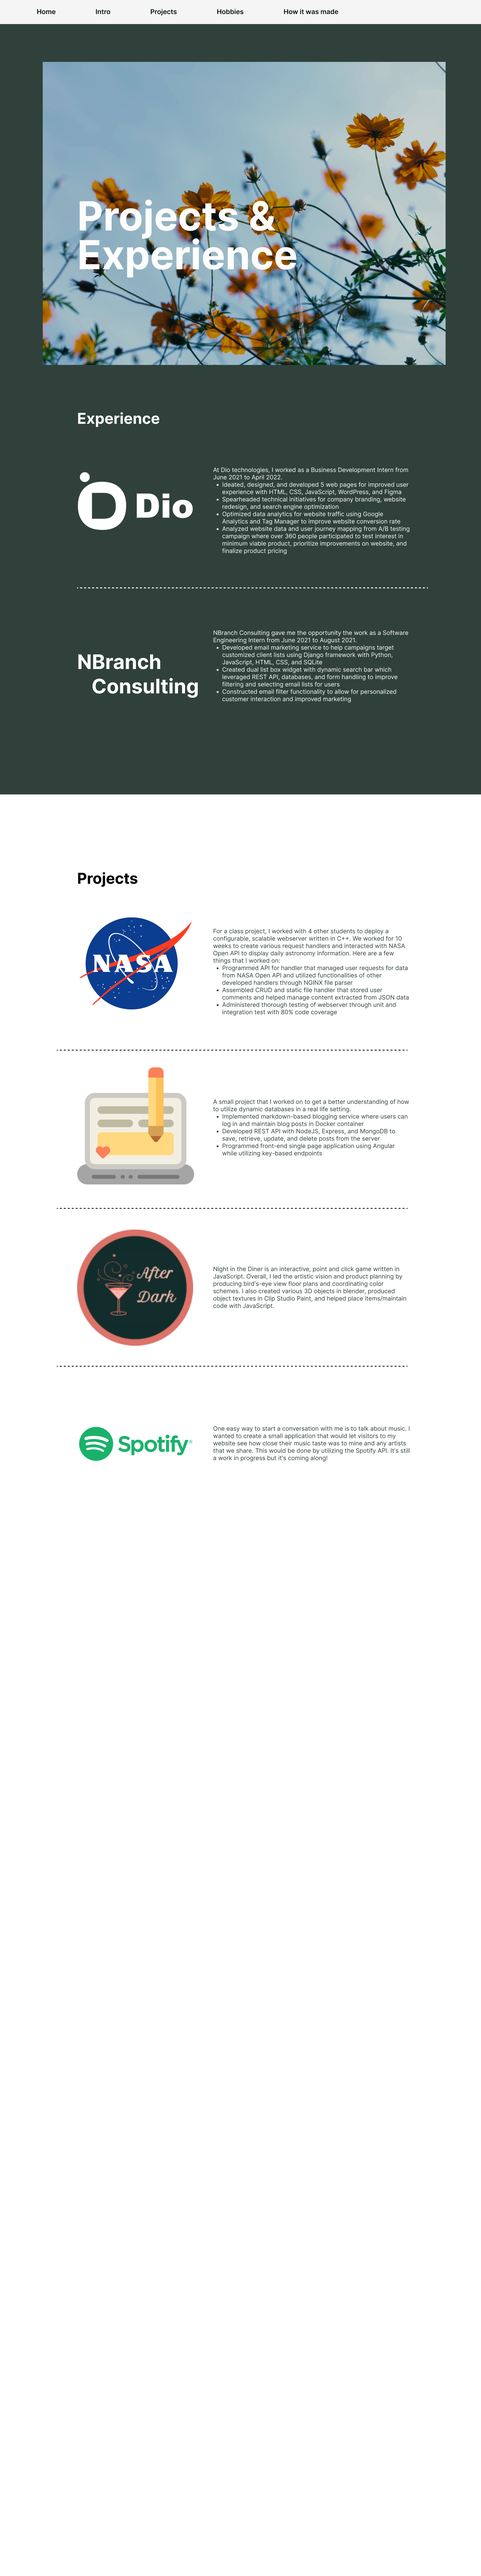
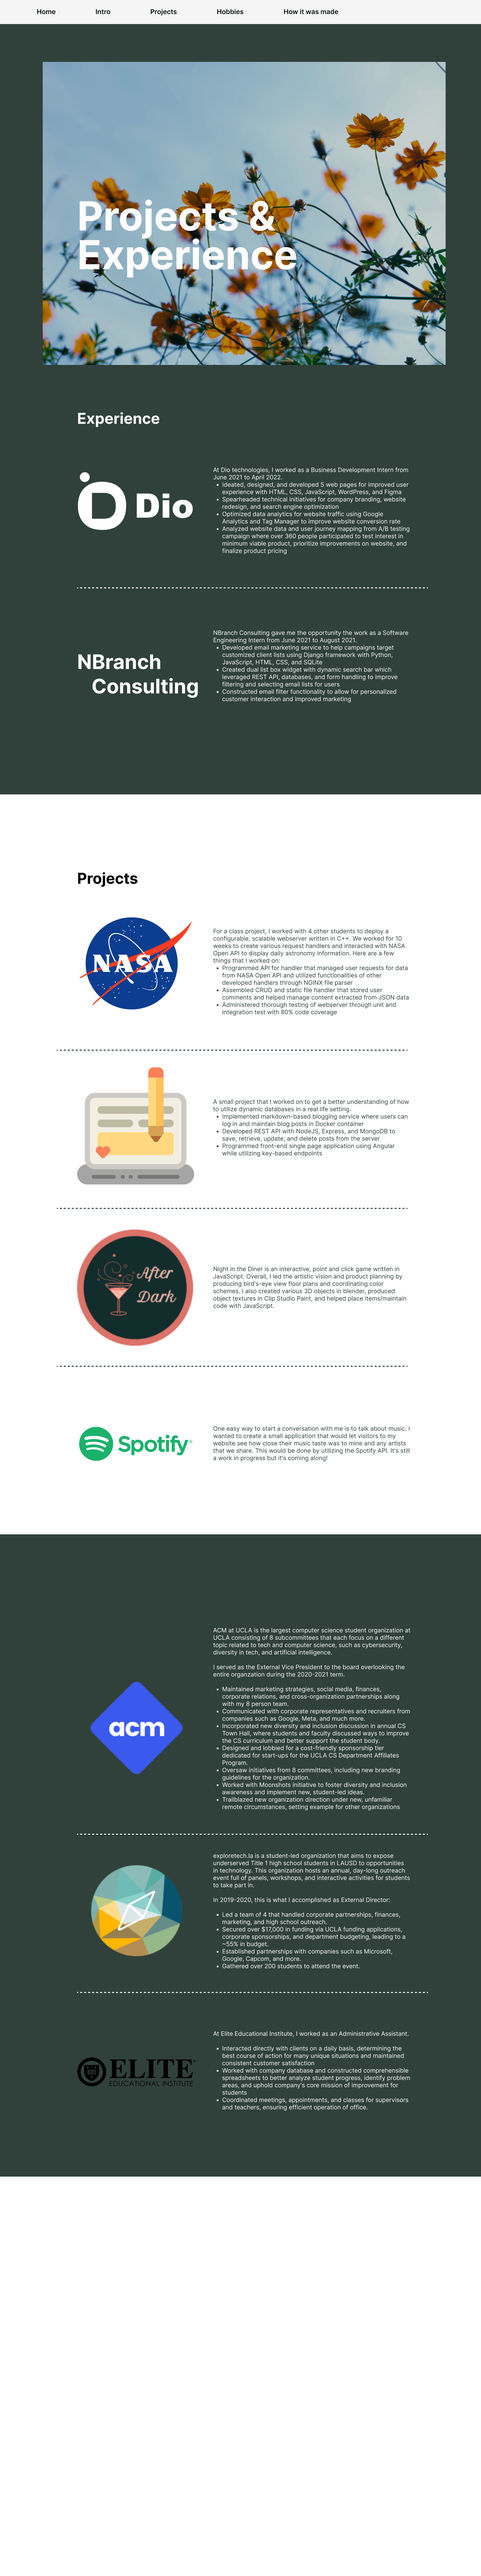
General page proofreading and bug fixes

Changed region(s): [[0.0, 0.5921, 1.0, 0.8726]]

diff --git a/index.html b/index.html
@@ -59,7 +59,7 @@
                     </p>
                     <p class='small_content'>
                         Currently, I'm interested in full-stack development. No matter what I do, I will always be happiest when I blend my creative abilities 
-                        and my interested in tech together to create something new and exciting!
+                        and my interest in tech together to create something new and exciting!
                     </p>
                 </div>
             </div>
@@ -80,17 +80,17 @@
                                         <img class='carousel_img' src='images/dio-white-transp.svg'/>
                                         <p>At Dio technologies, I worked as a Business Development Intern from June 2021 to April 2022. </p>
                                         <ul>
-                                            <li>Ideated, designed, and developed 5 web pages for improved user experience with HTML, CSS, JavaScript, WordPress, and Figma</li>
-                                            <li>Spearheaded technical initiatives for company branding, website redesign, and search engine optimization</li>
-                                            <li>Optimized data analytics for website traffic using Google Analytics and Tag Manager to improve website conversion rate</li>
-                                            <li>Analyzed website data and user journey mapping from A/B testing campaign where over 360 people participated to test interest in minimum viable product, prioritize improvements on website, and finalize product pricing</li>
+                                            <li><span class='strong'>Web Development</span>: Ideated, designed, and developed 5 web pages for improved user experience with HTML, CSS, JavaScript, WordPress, and Figma</li>
+                                            <li><span class='strong'>Design & SEO</span>: Spearheaded technical initiatives for company branding, website redesign, and search engine optimization</li>
+                                            <li><span class='strong'>Data Analysis</span>: Optimized data analytics for website traffic using Google Analytics and Tag Manager to improve website conversion rate</li>
+                                            <li><span class='strong'>A/B Testing</span>: Analyzed website data and user journey mapping from A/B testing campaign where over 360 people participated to test interest in minimum viable product, prioritize improvements on website, and finalize product pricing</li>
                                         </ul>
                                     </div>
                                 </li>
                                 <li class='carousel_slide rounded'>
                                     <div class='carousel_content'>
                                         <p><span class='carousel_title'>NBranch Consulting</span></p>
-                                        <p>NBranch Consulting gave me the opportunity the work as a Software Engineering Intern from June 2021 to August 2021.</p>
+                                        <p>NBranch Consulting gave me the opportunity the work as a Software Engineering Intern from June 2021 to August 2021. During my time as an intern, I worked on a lot of backend projects.</p>
                                         <ul>
                                             <li>Developed email marketing service to help campaigns target customized client lists using Django framework with Python, JavaScript, HTML, CSS, and SQLite</li>
                                             <li>Created dual list box widget with dynamic search bar which leveraged REST API, databases, and form handling to improve filtering and selecting email lists for users</li>
@@ -158,13 +158,20 @@
                     <div class='split-content'>
                         <img class='logos centered' src='images/acm-logo.svg'/>
                         <h3>Association of Computing Machinery</h3>
-                        <p class='small_content'><a class='dark-link' href='uclaacm.com'>ACM at UCLA</a> is the largest computer science student organization at UCLA consisting of 8
-                            subcommittees that each focus on a different topic related to tech and computer science, such as cybersecurity, diversity in tech, and artificial intelligence.
-                        </p>
-                        <div class='large_content'>
+
+                        <div class='medium_content'>
+                            <p><a class='dark-link' href='uclaacm.com'>ACM at UCLA</a> is the largest computer science student organization at UCLA consisting of 8
+                                subcommittees that each focus on a different topic related to tech and computer science, such as cybersecurity, diversity in tech, and artificial intelligence.
+                            </p>
+
                             <p>
                                 I served as the <span class='strong'>External Vice President</span> to the board overlooking the entire organzation during the 2020-2021 term. 
                             </p>
+
+                        </div>
+                        
+                        <div class='large_content'>
+                            
 
                             <p>Here is a brief list of my responsibilities:</p>
                             
@@ -177,6 +184,17 @@
                                 <li>Designed and lobbied for a cost-friendly sponsorship tier dedicated for start-ups for the UCLA CS Department Affiliates Program.</li>
                                 <li>Oversaw initiatives from 8 committees, including new branding guidelines for the organization.</li>
                                 <li>Worked with Moonshots initiative to foster diversity and inclusion awareness and implement new, student-led ideas.</li>
+                                <li>Trailblazed new organization direction under new, unfamiliar remote circumstances, setting example for other organizations</li>
+                            </ul>
+                        </div>
+
+                        <div class='small_content'>
+                            <p>Additional roles under this organization: </p>
+
+                            <ul class='small_text'>
+                                <li>Marketing Intern</li>
+                                <li>Marketing Director</li>
+                                <li>Advisor</li>
                             </ul>
                         </div>
                     </div>
@@ -184,12 +202,17 @@
                     <div class='split-content'>
                         <img class='logos centered' src='images/exploretech-logo.svg'/>
                         <h3>exploretech.la</h3>
-                        <p class='small_content'><a class='dark-link' href='exploretech.la'>exploretech.la</a> is a student-led organization that aims to expose underserved Title 1 high school students in LAUSD to opportunities in technology. 
-                            This organization hosts an annual, day-long outreach event full of panels, workshops, and interactive activities for students to take part in.
-                        </p>
+
+                        <div class='medium_content'>
+                            <p class='small_content'><a class='dark-link' href='exploretech.la'>exploretech.la</a> is a student-led organization that aims to expose underserved Title 1 high school students in LAUSD to opportunities in technology. 
+                                This organization hosts an annual, day-long outreach event full of panels, workshops, and interactive activities for students to take part in.
+                            </p>
+
+                            <p>In 2019-2020, this is what I accomplished as <span class='strong'>External Director</span>: </p>
+                        </div>
+                        
                         
                         <div class='medium_content'>
-                            <p>In 2019-2020, this is what I accomplished as <span class='strong'>External Director</span>: </p>
 
                             <ul class='small_text'>
                                 <li>Led a team of 4 that handled corporate partnerships, finances, marketing, and high school outreach.</li>
@@ -240,7 +263,7 @@
                 <p class='small_content'>I hope you enjoyed your time here and got to know a little more about me.</p>
 
                 <p class='small_content'>There's definitely a lot more to uncover! If you like what you see and want to learn more about me be sure to check out the other pages in the navigation bar above.</p>
-                <p class='small_content'>Head over to the <a class='dark-link' href='how_made.html'>How It Was Made page</a> to follow along my thought processes and learn mroe details about how this page was made.
+                <p class='small_content'>Head over to the <a class='dark-link' href='how_made.html'>How It Was Made page</a> to follow along my thought processes and learn more details about how this page was made.
                 </p>
             </div>
         </div>

diff --git a/how_made.html b/how_made.html
@@ -40,7 +40,7 @@
             </p>
 
             <p class='small_content'>
-                For the overall aesthetics, I wanted to reflect a relaxed, calmer vibe that reflects a lot of the music that I listen to. The flower 
+                For the overall aesthetics, I wanted to reflect a relaxed, calmer vibe that mirrored the energy of a lot of the music that I listen to. The flower 
                 headers and nature aspects were largely inspired by a music mega mix video that had a lot of hard cuts of nature scenes. 
             </p>
 
@@ -60,8 +60,8 @@
         <div class='content'>
             <h2>Wireframing</h2>
             <p class='small_content'>In order to map out how I wanted the website to look, I created low-fidelity wireframes and mock-ups for each page to guide me during 
-                the implementation process. To save time for myself, I chose to opt out of creating a super detailed prototype but in a more real development 
-                environment, it would be important to convey more detail to communicate ideas better.
+                the development process. Afterwards, I created a simple prototype to analyze the website flow. To save time for myself, I chose to opt out of creating a super
+                 detailed prototype but in a more real development environment, it would be important to convey more detail to communicate ideas better.
             </p>
             <p class='small_content'>
                 <span class='strong'>Low-fidelity wireframe</span>: a sketch of simple boxes and text to convey the basic concepts, layout, and functionality
@@ -147,43 +147,50 @@
             <div class='content'>
                 <h2>Building & Deploying</h2>
                 <p class='small_content'>
-                    Once the design phase was finished, it was time to move onto the development stage. I spent a couple of days refreshing my knowledge on HTML, CSS, and Javascript through reading 
-                    guides, such as <a class='dark-link' href='https://internetingishard.netlify.app/'>Interneting is Hard</a> and MDN docs, and working through small examples. After gaining more confidence I dove right into building this project since learning is best done by just doing. 
+                    Once the design phase was finished, it was time to move onto the development stage. I spent a couple of days refreshing my knowledge on HTML, CSS, and Javascript through reading various
+                     guides, such as <a class='dark-link' href='https://internetingishard.netlify.app/'>Interneting is Hard</a> and MDN docs, and working through small examples.
+                     After gaining more confidence I dove right into building this project since learning is best done by just doing. 
                 </p>
 
-                <p class='small_content'>Everything on this website was built using HTML, CSS, and Javascript. The website was built in VSCode and deployed on Github.</p>
+                <p class='small_content'>Everything on this website was built using HTML, CSS, and Javascript. The website was built in VSCode and deployed on Github Pages.</p>
             </div>
        
 
             <div class='content'>
                 <h2>Reflections & Next Steps</h2>
 
-                <p>Overall, creating this whole project was a valuable learning experience. Going through the motions of designing a website to deploying a fully interactable version was a process full of learning, adjusting, and trying.</p>
+                <p class='small_content'>Overall, creating this whole project was a valuable learning experience. Going through the motions of designing a website to deploying a fully interactable version was a process full of learning, adjusting, and trying.</p>
 
-                <p>What did I learn? What would I do differently?</p>
-                <ul>
-                    <li>
-                        <span class='strong'>Better workflow</span>: I would definitely spend a lot more time fleshing out the website design better before jumping into development. I got a little too excited jumping into developing that I had to constantly readjust and re-implement things due to poor design planning.
-                    </li>
-                    <li>
-                        <span class='strong'>Inspiration from others</span>: I learned that simply just viewing other websites and trying to picture what it took to implement it sections at a time is a great way to get inspiration and a visual representation of your end goal. The world is really your oyster.
-                    </li>
+                <div class='medium_content'>
+                    <p>What did I learn? What would I do differently?</p>
+                    <ul>
+                        <li>
+                            <span class='strong'>Better workflow</span>: I would definitely spend a lot more time fleshing out the website design better before jumping into development. I got a little too excited jumping into developing that I had to constantly readjust and re-implement things due to poor design planning.
+                        </li>
+                        <li>
+                            <span class='strong'>Inspiration from others</span>: I learned that simply just viewing other websites and trying to picture what it took to implement it sections at a time is a great way to get inspiration and a visual representation of your end goal. The world is really your oyster.
+                        </li>
+                        <li>
+                            <span class='strong'>Importance of color and spacing</span>: One thing I realized during development is that spacing and coloring can be used in unique ways to break up text while presenting a large amount of information so your audience doesn't feel overwhelmed. Its definitely something I need to improve on in future projects
+                        </li>
 
-                </ul>
+                    </ul>
+                </div>
 
-                <p>So, what's next?</p>
-                <ul>
-                    <li>
-                        <span class='strong'>Backend Projects</span>: One thing I plan to include is a small project I'm working on where Spotify users who visit the page can compare how similar their music tastes are to mine.
-                    </li>
-                    <li>
-                        <span class='strong'>Responsive Design</span>: The website is painfully lacking responsive design, which means it won't display equally well on smaller screens and currently works best when viewed in full screen browser on a monitor. It would be nice to create a overall better viewing experience.
-                    </li>
-                    <li>
-                        <span class='strong'>Constant Improvement</span>: I hope to improve and study the interaction of frontend and backend by creating more projects and analyzing the work of others.
-                    </li>
-                </ul>
-
+                <div class='small_content'>
+                    <p>So, what's next?</p>
+                    <ul>
+                        <li>
+                            <span class='strong'>Backend Projects</span>: One thing I plan to include is a small project I'm working on where Spotify users who visit the page can compare how similar their music tastes are to mine.
+                        </li>
+                        <li>
+                            <span class='strong'>Responsive Design</span>: The website is painfully lacking responsive design, which means it won't display equally well on smaller screens and currently works best when viewed in full screen browser on a monitor. It would be nice to create a overall better viewing experience.
+                        </li>
+                        <li>
+                            <span class='strong'>Constant Improvement</span>: I hope to improve and study the interaction of frontend and backend by creating more projects and analyzing the work of others.
+                        </li>
+                    </ul>
+                </div>
             </div>
         </div>
 

diff --git a/projects.html b/projects.html
@@ -121,6 +121,78 @@
             
         </div>
 
+        <div class='dark light-text'>
+            <div class='content'>
+                <h2>Work Experience</h2>
+    
+                <div class='list_section large_content'>
+                    <div class='list_img'><img src='images/acm-logo.svg'/></div>
+                    <div class='list_txt list_txt_right'>
+                        <p>ACM at UCLA is the largest computer science student organization at UCLA consisting of 8 subcommittees that each
+                             focus on a different topic related to tech and computer science, such as cybersecurity, diversity in tech, and artificial intelligence.</p>
+                        <p>I served as the <span class='strong'>External Vice President</span> to the board overlooking the entire organzation during the 2020-2021 term.</p>
+                        
+                        <ul class='small_text'>
+                            <li>Maintained marketing strategies, social media, finances, corporate relations, and cross-organization partnerships along with my 
+                                8 person team.</li>
+                            <li>Communicated with corporate representatives and recruiters from companies such as Google, Meta, and much more.</li>
+                            <li>Incorporated new diversity and inclusion discussion in annual CS Town Hall, where students and faculty discussed ways 
+                                to improve the CS curriculum and better support the student body.</li>
+                            <li>Designed and lobbied for a cost-friendly sponsorship tier dedicated for start-ups for the UCLA CS Department Affiliates Program.</li>
+                            <li>Oversaw initiatives from 8 committees, including new branding guidelines for the organization.</li>
+                            <li>Worked with Moonshots initiative to foster diversity and inclusion awareness and implement new, student-led ideas.</li>
+                            <li>Trailblazed new organization direction under new, unfamiliar remote circumstances, setting example for other organizations</li>
+                        </ul>
+                        
+                    </div>
+                </div>
+    
+                <hr class='dashed-light small_content'>
+    
+                <div class='list_section medium_content'>
+                    <div class='list_img'><img src='images/exploretech-logo.svg'/></div>
+                    <div class='list_txt list_txt_right'>
+                        <p>
+                            exploretech.la is a student-led organization that aims to expose underserved Title 1 high school students in LAUSD to opportunities
+                             in technology. This organization hosts an annual, day-long outreach event full of panels, workshops, and interactive activities for students to take part in.
+                        </p>
+
+                        <p>In 2019-2020, this is what I accomplished as <span class='strong'>External Director</span>: </p>
+
+                        <ul class='small_text'>
+                            <li>Led a team of 4 that handled corporate partnerships, finances, marketing, and high school outreach.</li>
+                            <li>Secured over $17,000 in funding via UCLA funding applications, corporate sponsorships, and department budgeting, 
+                                leading to a ~55% in budget.</li>
+                            <li> Established partnerships with companies such as Microsoft, Google, Capcom, and more.</li>
+                            <li>Gathered over 200 students to attend the event.</li>
+                        </ul>
+
+                        
+                    </div>
+                </div>
+
+                <hr class='dashed-light small_content'>
+
+                <div class='list_section small_content'>
+                    <div class='list_img'><img src='images/elite_edu.png'/></div>
+                    <div class='list_txt list_txt_right'>
+                        <p>
+                            At Elite Educational Institute, I worked as an <span class='strong'>Administrative Assistant</span>.
+                        </p>
+
+                        <ul class='small_text'>
+                            <li>Interacted directly with clients on a daily basis, determining the best course of action for many unique situations and maintained consistent customer satisfaction</li>
+                            <li>Worked with company database and constructed comprehensible spreadsheets to better analyze student progress, identify problem areas, and uphold company's core mission of improvement for students</li>
+                            <li>Coordinated meetings, appointments, and classes for supervisors and teachers, ensuring efficient operation of office.</li>
+                        </ul>
+                        
+                    </div>
+                </div>
+
+    
+            </div>
+        </div>
+
         <script src='script_text_observers.js'></script>
 
     </body>

diff --git a/hobbies.html b/hobbies.html
@@ -40,7 +40,7 @@
                     <p>
                         Did you know that everything in the world can just be broken down into simpler shapes
                         to get a better understanding of its form? Through that fundamental truth, I find that drawing and the problem solving in software engineering 
-                        complement each other very well. By breaking things down to get a better understanding, you can create complex solutions and products in both worlds. 
+                        complement each other very well. By breaking things down to get greater insight and new perspectives, you can create complex solutions and products in both worlds. 
                     </p>
 
                     <p>
@@ -69,7 +69,7 @@
                         </p>
 
                         <p>
-                            These days, I use these skills to make custom keycaps for myself and my friends. Though I don't do it as often as drawing, I find it nice work with my hands and translate my 
+                            These days, I use these skills to make custom keycaps for myself and my friends. Though I don't do it as often as drawing, I find it nice to work with my hands and translate my 
                             creative skills into the physical world.  
                         </p>
 
@@ -88,8 +88,8 @@
 
                 <div class='small_content'>
                     <p>Music is such a core part of my every day life; I'm always bobbing my head to something no matter what I'm doing. When I need a boost of energy, 
-                        I listen to a lot of EDM like melodic, hard trance, and dubstep. When I'm not listening to that, you can find me listening to more calm and ambient 
-                        electropop, RnB, or pop.
+                        I listen to a lot of EDM like melodic dubstep, hard trance, and dubstep. When I'm not listening to that, you can find me listening to more calm and ambient 
+                        electropop, RnB, or synth-pop.
                     </p>
                     <p>
                         I love analyzing other people's music tastes and then curating playlists for them when they want to explore music genres I enjoy.
